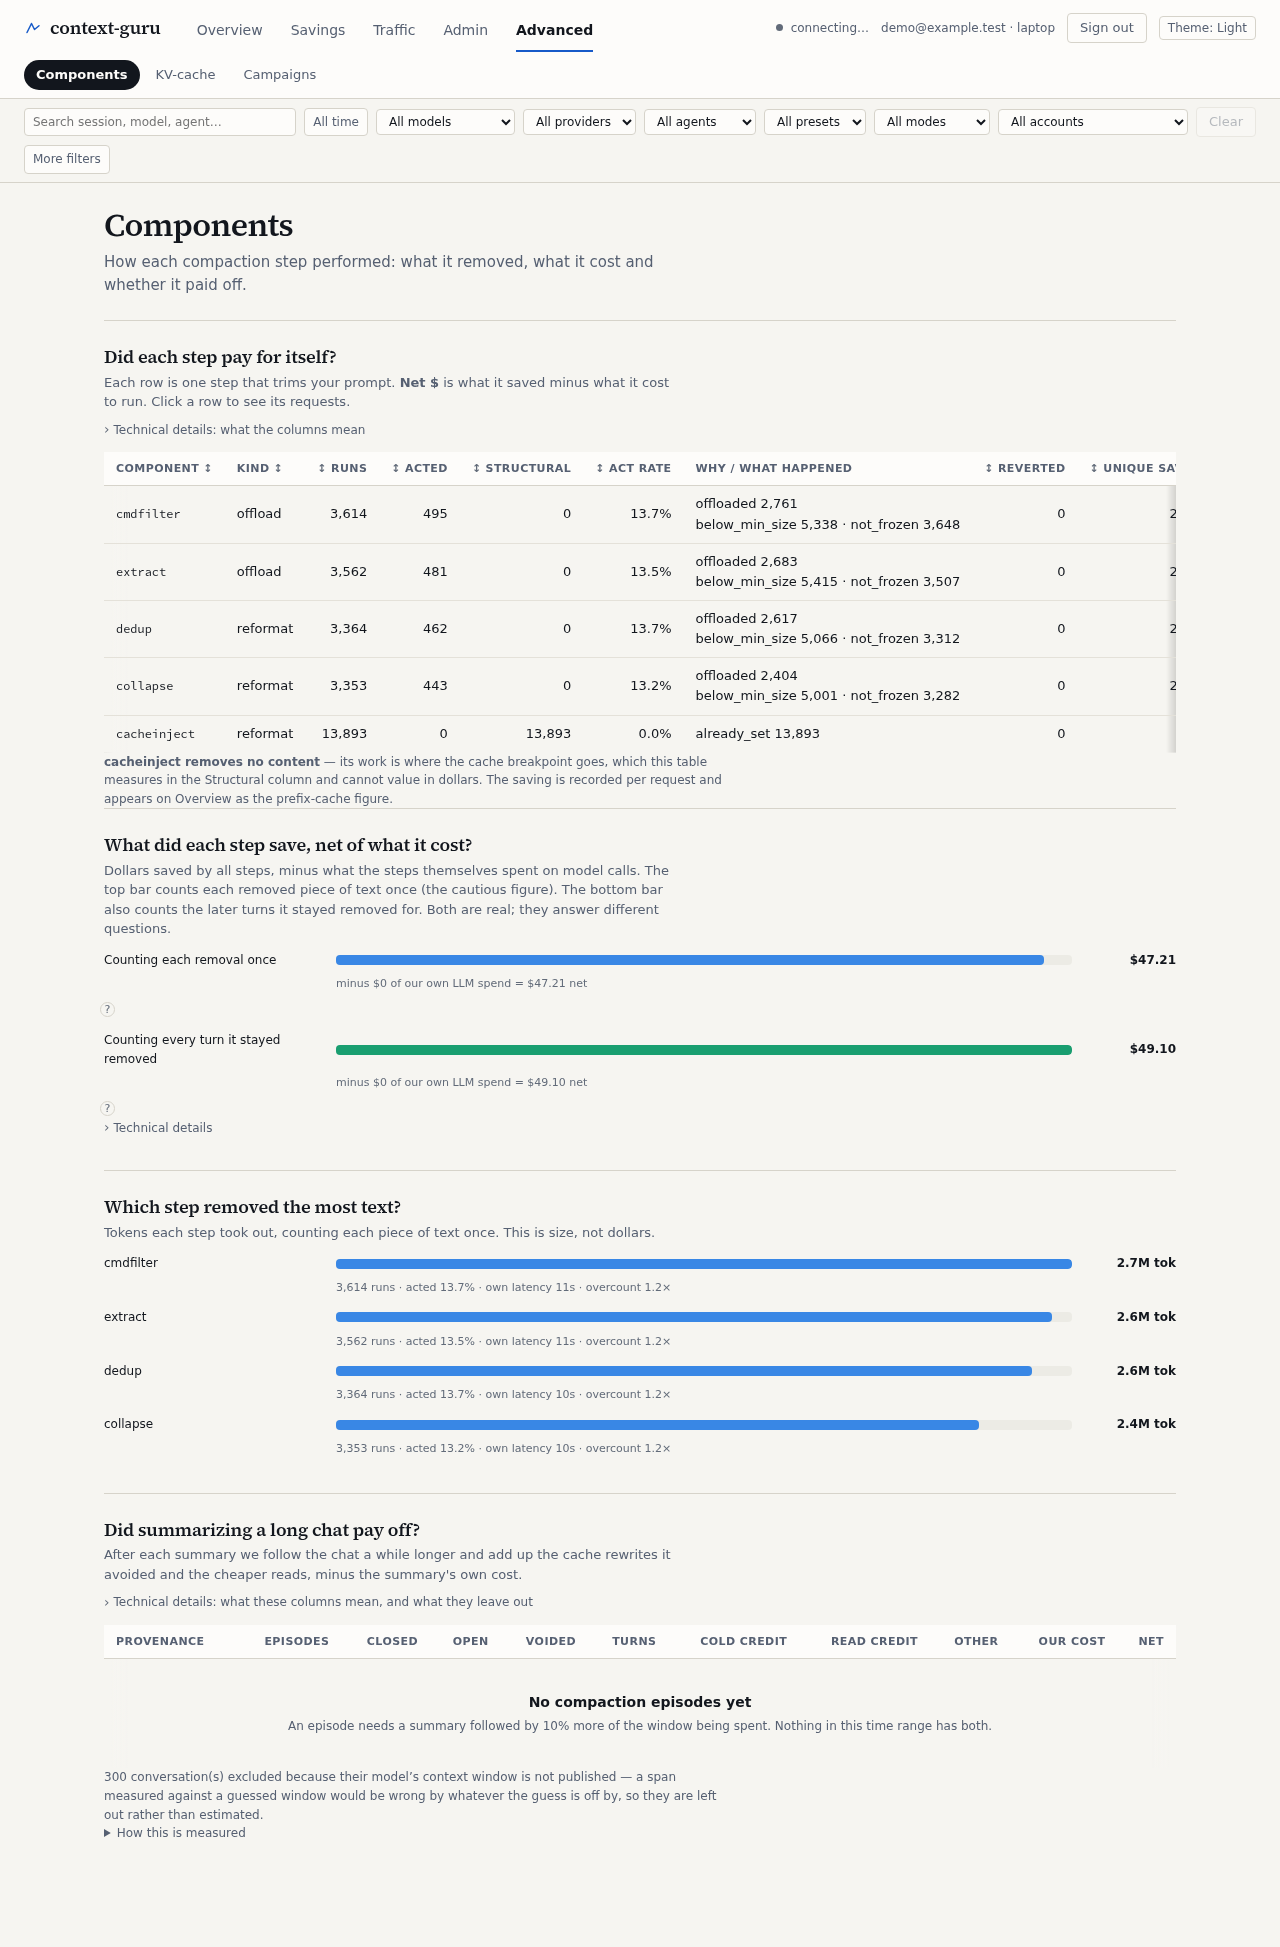
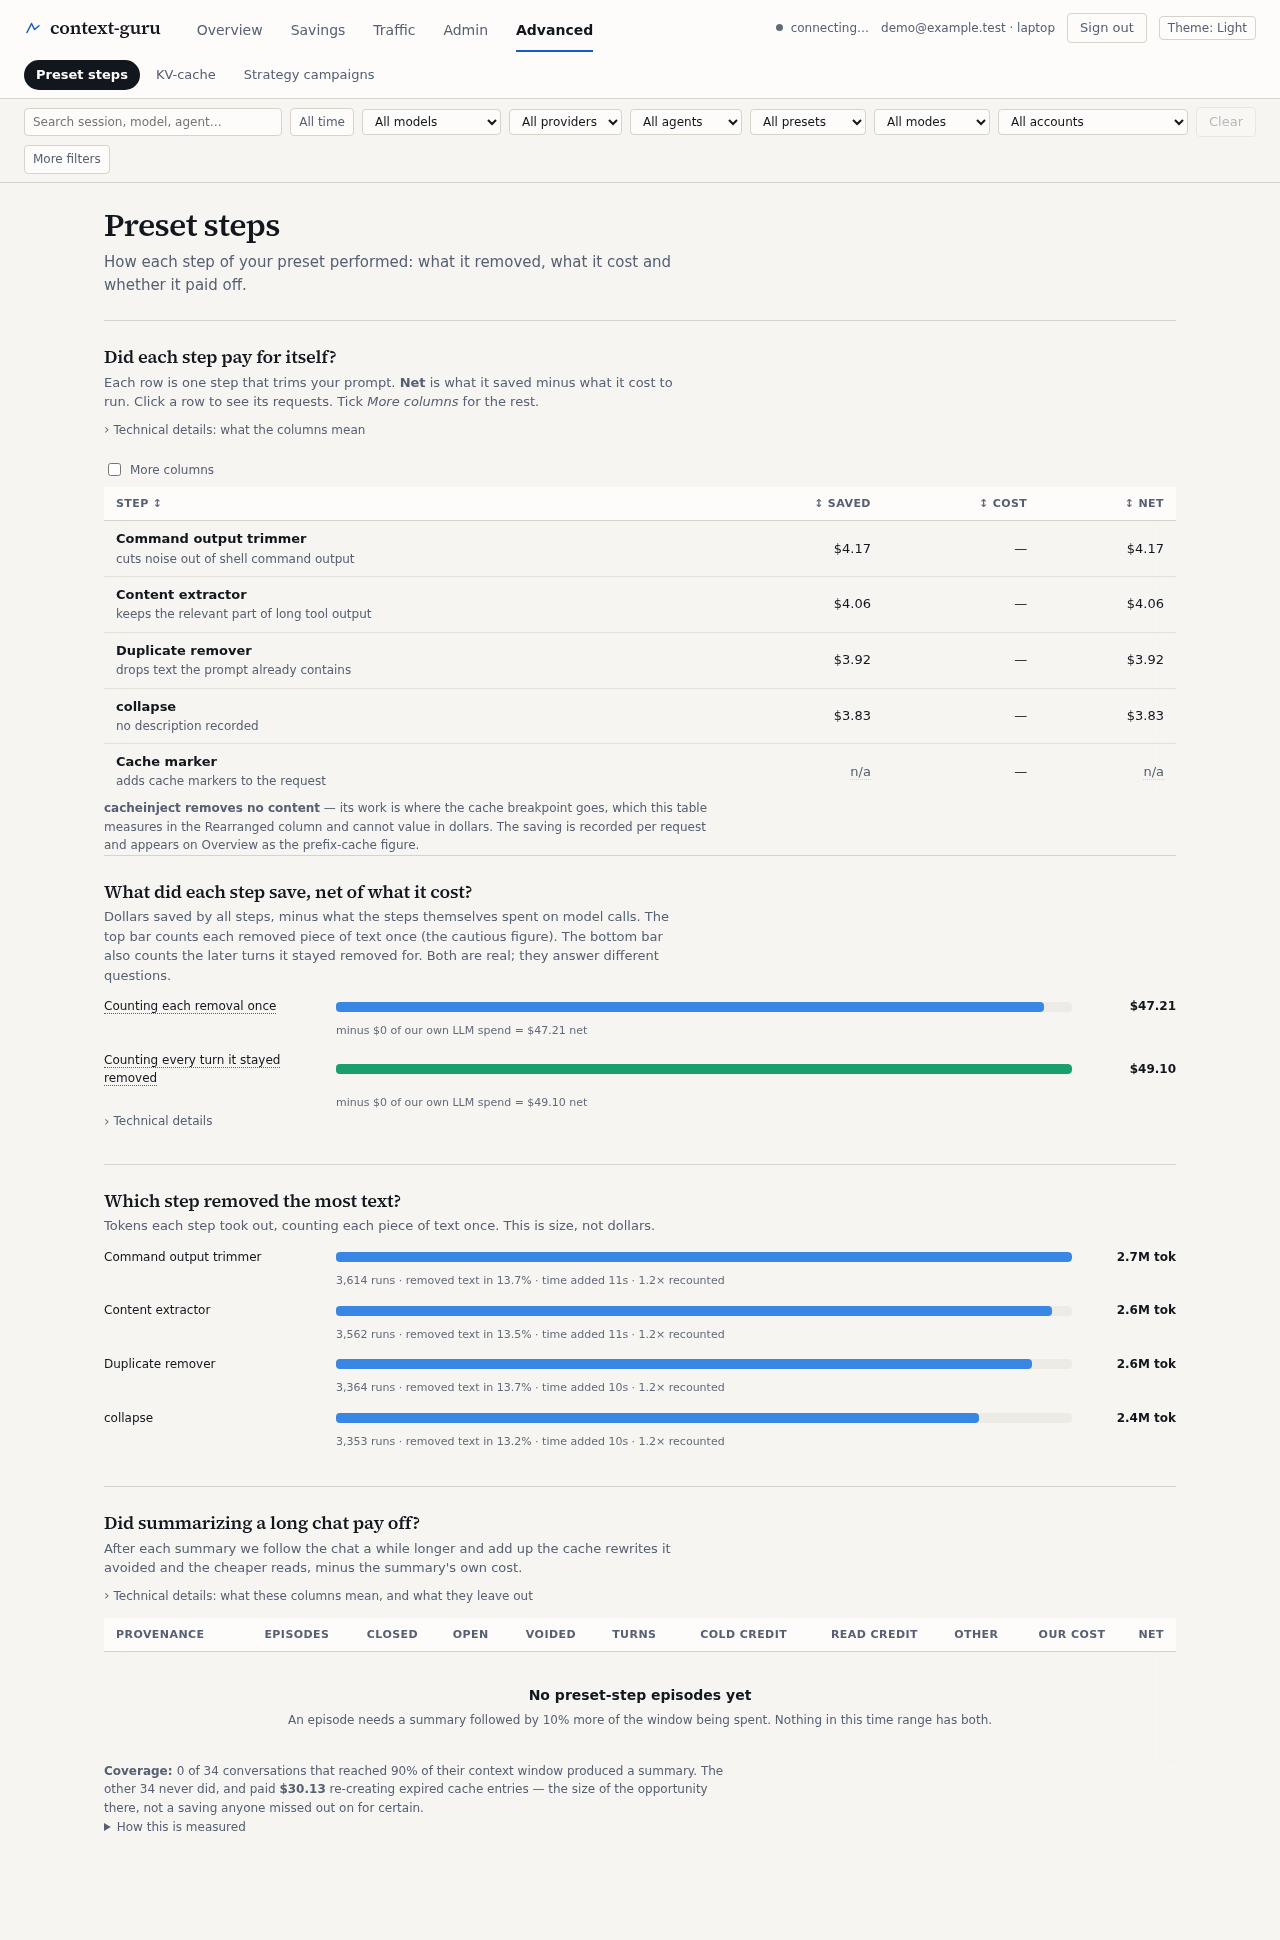
docs(dash): user terms (preset, cache strategy) in the guide and tab names; screenshots regenerated on the neutral demo

diff --git a/docs/how-to/dashboard-guide.md b/docs/how-to/dashboard-guide.md
@@ -4,7 +4,8 @@ A plain guide to every tab of the context-guru dashboard. Each section says in o
 tab shows, then explains its blocks in a few words. For the technical reference see
 [Dashboard](../dashboard.md).
 
-The dashboard opens at `http://localhost:4000/dashboard/` (use your own host and port). Old links such as `#home` and `#cache` open Overview and Keep-alive.
+The dashboard opens at `http://localhost:4000/dashboard/` (use your own host and port). Old links such as `#home` and `#cache` open Overview and Cache strategy.
+The old names still appear in some places: "compaction" means your **preset** and "keep-alive" means a **cache strategy**.
 The tabs sit in five groups along the top: **Overview**, **Savings**, **Traffic**, **Admin** and
 **Advanced**. The row of filters under them (time range, model, agent, account) applies to every
 tab. Pick a range first; all the numbers below follow it.
@@ -24,7 +25,7 @@ tab's title says so. The sample data on these screenshots is invented. Dark them
 
     ![The Overview tab, dark theme](../img/dashboard/overview-dark.png)
 
-**What context-guru saved.** Three rows: Cache keep-alive, Compaction, and Tools and skills filter. Each shows money and tokens saved, set against what you spent in the selected range. An "Estimated" or "Upper bound" badge tells you how firm the number is. The keep-alive row also shows the waiting time it avoided, and says that whether to keep it on is a forecast from your own history: see the Keep-alive tab. A note under the rows explains that "spent" includes our own model calls and pings, and that the provider's own cache discount is not counted as our saving.
+**What context-guru saved.** Three rows: Cache strategy, Your preset (with its name), and Tools and skills filter. Each shows money and tokens saved, set against what you spent in the selected range. An "Estimated" or "Upper bound" badge tells you how firm the number is. The cache strategy row also shows the waiting time it avoided, and says that whether to keep it on is a forecast from your own history: see the Cache strategy tab. A note under the rows explains that "spent" includes our own model calls and pings, and that the provider's own cache discount is not counted as our saving.
 
 **Tools and skills to remove.** A ranked list of the tools and skills your agent carries but never uses, with what carrying each one cost in the selected range. Two commands you can copy, `/context-guru:remove-mcp-and-skills` and `/context-guru:insights tools`, remove them or show the details. A link opens the Inventory tab.
 
@@ -37,25 +38,25 @@ Detailed diagnostics, opened:
 ![The Overview with Detailed diagnostics open](../img/dashboard/overview-diagnostics-light.png)
 
 
-## Keep-alive
+## Cache strategy
 
-**Whether pinging your cache before it expires paid for itself, and which setting to use.**
+**Whether your cache strategy (keeping the prompt cache warm while you think) paid for itself, and which one to use. Also called keep-alive.**
 
 === "Light"
 
-    ![The Keep-alive tab, light theme](../img/dashboard/keepalive-light.png)
+    ![The Cache strategy tab, light theme](../img/dashboard/keepalive-light.png)
 
 === "Dark"
 
-    ![The Keep-alive tab, dark theme](../img/dashboard/keepalive-dark.png)
+    ![The Cache strategy tab, dark theme](../img/dashboard/keepalive-dark.png)
 
-**Does keep-alive pay for itself?.** One verdict for your own history. The prompt cache is the provider's short-term memory of your conversation; it is dropped after a few minutes of silence. A keep-alive ping is a tiny request that keeps it.
+**Does your cache strategy pay for itself?** One verdict for your own history. The prompt cache is the provider's short-term memory of your conversation; it is dropped after a few minutes of silence. A cache strategy sends a tiny ping that keeps it warm (also called keep-alive).
 
 **Which sessions gained and which lost.** A ranked list of sessions with what pings cost and what they saved. It shows whether the gain is spread out or sits in a few sessions. A second list shows sessions whose cache is still warm right now.
 
 **How often your cache ran out.** Compact charts of the expiries: how many per day, what they cost, and how long you had been idle when they happened.
 
-**What would other settings have earned?.** A calculator and a recommendation. Change how long to wait before a ping and how many pings to send, and see what your past traffic would have cost.
+**What would other settings have earned?** A calculator and a recommendation. Change how long to wait before a ping and how many pings to send, and see what your past traffic would have cost.
 
 
 ## Inventory
@@ -72,11 +73,11 @@ Detailed diagnostics, opened:
 
 **Removable groups.** Ranked cards, biggest first. Each card is one thing you can remove, such as a whole tool server, with the cost of carrying it and the command to remove it.
 
-**How much is never used?.** Two short summaries of how much of what you send nothing ever calls. Tools are listed in every request, so you pay for them every time.
+**How much is never used?** Two short summaries of how much of what you send nothing ever calls. Tools are listed in every request, so you pay for them every time.
 
-**What did my removals save?.** After you remove something, this shows what it saved on requests really sent. It is kept apart from the estimates above.
+**What did my removals save?** After you remove something, this shows what it saved on requests really sent. It is kept apart from the estimates above.
 
-**What is in the start of every request?.** Splits the fixed start of each request into its parts and shows which parts you can change.
+**What is in the start of every request?** Splits the fixed start of each request into its parts and shows which parts you can change.
 
 
 ## Usage
@@ -91,11 +92,11 @@ Detailed diagnostics, opened:
 
     ![The Usage tab, dark theme](../img/dashboard/usage-dark.png)
 
-**What did I spend each day?.** One chart of daily spend, in UTC days, with how much compaction took off. Hover a bar for the exact day.
+**What did I spend each day?** One chart of daily spend, in UTC days, with how much your preset took off. Hover a bar for the exact day.
 
-**Where did the money go?.** Splits spend by model or agent, so you can see which one costs the most.
+**Where did the money go?** Splits spend by model or agent, so you can see which one costs the most.
 
-**How much did the prompt cache cover?.** Shows how requests were billed: cheap cache reads, dearer cache writes, and full-price new input. Charts show where cache markers sit in your prompts, how long the cache was asked to live, and why it sometimes missed.
+**How much did the prompt cache cover?** Shows how requests were billed: cheap cache reads, dearer cache writes, and full-price new input. Charts show where cache markers sit in your prompts, how long the cache was asked to live, and why it sometimes missed.
 
 
 ## Sessions
@@ -139,15 +140,15 @@ Detailed diagnostics, opened:
 **Logs.** Steps to open the proxy logs through an SSH tunnel, when logging is set up.
 
 
-## Strategies
+## Cache strategies
 
-**Saved keep-alive rules and what each has done so far.**
+**The cache strategies you saved and what each has done so far.**
 
 *Managers only.*
 
 === "Light"
 
-    ![The Strategies tab, light theme](../img/dashboard/strategies-light.png)
+    ![The Cache strategies tab, light theme](../img/dashboard/strategies-light.png)
 
 **New strategy.** Pick how long to wait before a ping and how many pings to send, name the rule, and save it.
 
@@ -186,7 +187,7 @@ Detailed diagnostics, opened:
 
 ## Settings
 
-**Your account: compaction settings, access tokens, password and machines.**
+**Your account: preset settings, access tokens, password and machines.**
 
 *Hosted service only.*
 
@@ -194,7 +195,7 @@ Detailed diagnostics, opened:
 
     ![The Settings tab, light theme](../img/dashboard/settings-light.png)
 
-**Compaction settings and tokens.** Change the compaction options for your account and manage the access tokens your agents use.
+**Preset settings and tokens.** Change the preset options for your account and manage the access tokens your agents use.
 
 **Password and machines.** Change your password and see where you are signed in.
 
@@ -224,28 +225,28 @@ Detailed diagnostics, opened:
 
     ![The Feedback tab, light theme](../img/dashboard/feedback-light.png)
 
-**How is context-guru working for you?.** A short form. It takes under a minute.
+**How is context-guru working for you?** A short form. It takes under a minute.
 
 **What people said.** For managers: charts of scores by agent and over time, and whether people would recommend it.
 
 **All answers.** The raw answers, newest first.
 
 
-## Components
+## Preset steps
 
-**How each compaction step performed: what it removed, what it cost and whether it paid off.**
+**How each step of your preset performed: what it removed, what it cost and whether it paid off.**
 
 === "Light"
 
-    ![The Components tab, light theme](../img/dashboard/components-light.png)
+    ![The Preset steps tab, light theme](../img/dashboard/components-light.png)
 
-**Did each step pay for itself?.** A component is one step of compaction, such as removing duplicate text. The table shows how often each step ran and whether it earned more than it cost.
+**Did each step pay for itself?** A preset is a list of steps (also called compaction components), such as removing duplicate text. The table shows how often each step ran and whether it earned more than it cost.
 
-**What did each step save, net of what it cost?.** The net dollars per step, after the cost of any model call the step made.
+**What did each step save, net of what it cost?** The net dollars per step, after the cost of any model call the step made.
 
-**Which step removed the most text?.** A chart of tokens removed per step.
+**Which step removed the most text?** A chart of tokens removed per step.
 
-**Did summarizing a long chat pay off?.** The result of the summarizing step on its own.
+**Did summarizing a long chat pay off?** The result of the summarizing step on its own.
 
 
 ## KV-cache
@@ -256,30 +257,30 @@ Detailed diagnostics, opened:
 
     ![The KV-cache tab, light theme](../img/dashboard/kvcache-light.png)
 
-**How long do conversations pause?.** Counts how often a request is followed by another and how soon. Requests with no follow-up are left out of averages.
+**How long do conversations pause?** Counts how often a request is followed by another and how soon. Requests with no follow-up are left out of averages.
 
-**How long is the pause before the next request?.** A chart of idle times and a curve of how many conversations had come back by each moment. It shows whether the five-minute cache window fits your habits.
+**How long is the pause before the next request?** A chart of idle times and a curve of how many conversations had come back by each moment. It shows whether the five-minute cache window fits your habits.
 
-**Which users and models pause longest?.** The same idle times split by cache lifetime, user, model and time of day.
+**Which users and models pause longest?** The same idle times split by cache lifetime, user, model and time of day.
 
-**What does caching cost?.** Every price the page uses, and the cost of a different cache lifetime on your past traffic.
+**What does caching cost?** Every price the page uses, and the cost of a different cache lifetime on your past traffic.
 
 **Every request behind these numbers.** The raw rows, sortable, and a note on how the numbers are calculated.
 
 
-## Campaigns
+## Strategy campaigns
 
-**Create keep-alive rules for many sessions at once, then check them on data they have not seen.**
+**Create cache strategies for many sessions at once, then check them on data they have not seen.**
 
 *Managers only.*
 
 === "Light"
 
-    ![The Campaigns tab, light theme](../img/dashboard/campaigns-light.png)
+    ![The Strategy campaigns tab, light theme](../img/dashboard/campaigns-light.png)
 
-**Create rules for many accounts at once.** Fetch the suggested rule for each account, or upload your own file, and create the strategies in one step.
+**Create rules for many accounts at once.** Fetch the suggested strategy for each account, or upload your own file, and create the cache strategies in one step.
 
-**Would these predictions hold on new data?.** Picks a rule on an earlier period and scores it on a later one. If it only works on the earlier period, the check says so.
+**Would these predictions hold on new data?** Picks a rule on an earlier period and scores it on a later one. If it only works on the earlier period, the check says so.
 
 **Campaigns you have created.** The list of campaigns and what each did.
 

diff --git a/docs/dashboard.md b/docs/dashboard.md
@@ -11,7 +11,9 @@ context-guru-proxy --preset general --dashboard
 ```
 
 `/dashboard/` opens the **Overview**. The older links `/dashboard/#home` and `/dashboard/#cache` open
-Overview and Keep-alive, and `/dashboard/home.html` redirects to the dashboard.
+Overview and Cache strategy, and `/dashboard/home.html` redirects to the dashboard.
+
+The dashboard uses the words *preset* and *cache strategy*. The older names, compaction and keep-alive, mean the same things.
 
 It is **off by default**. Turning it on adds `/dashboard/` and `/api/*`; every existing
 route, including [`/stats`](reference/reference.md), is byte-for-byte unchanged.
@@ -28,23 +30,23 @@ route, including [`/stats`](reference/reference.md), is byte-for-byte unchanged.
 
 ## What you'll see
 
-- **Overview** — "What context-guru saved": three rows (cache keep-alive, compaction, tools and
+- **Overview** — "What context-guru saved": three rows (Cache strategy, Your preset, Tools and
   skills filter), each in dollars and tokens against what you spent, with an *Estimated* or
-  *Upper bound* badge. The keep-alive row notes that whether to keep it on is a forecast (see
-  Keep-alive), and a note says the provider's own cache discount is not counted. Below: "Tools and
+  *Upper bound* badge. The cache strategy row notes that whether to keep it on is a forecast (see
+  the Cache strategy tab), and a note says the provider's own cache discount is not counted. Below: "Tools and
   skills to remove" (a ranked list, with `/context-guru:remove-mcp-and-skills` and
   `/context-guru:insights tools`), "About the other tabs", and one closed "Detailed diagnostics"
   section with five plots (net saving over time; money saved and added, where an outlined bar is an
   upper bound; tokens removed; where input tokens went, as 100% columns of cache read, cache write
   and fresh; time added per request and requests with cache misses) and a live requests table.
   Every plot shows exact figures on hover.
-- **Savings** — Keep-alive, Inventory (the [tool inventory](#tool-inventory-panel)) and Usage over time.
+- **Savings** — Cache strategy (also called keep-alive), Inventory (the [tool inventory](#tool-inventory-panel)) and Usage over time.
 - **Traffic** — Sessions (newest or costliest first; six columns, more with a checkbox) and
   Requests, including a git-style diff of exactly what was rewritten on the wire.
-- **Admin** — Config, Strategies, Tenants, Setup, Settings, Archive and Feedback
+- **Admin** — Config, Cache strategies, Tenants, Setup, Settings, Archive and Feedback
   (some of these appear only in a [hosted service](hosted.md)).
-- **Advanced** — Components (per-component economics), [KV-cache behavior](#kv-cache-panel),
-  and Campaigns (per-account keep-alive rules).
+- **Advanced** — Preset steps (per-component economics), [KV-cache behavior](#kv-cache-panel),
+  and Strategy campaigns (per-account cache strategies).
 
 Every tab starts with a title and one line saying what it shows. Dark mode, small
 viewports, and empty states (a blank dashboard explains *why* each panel is blank) are
@@ -157,7 +159,7 @@ still works; only the text is withheld.
 at that idle profile, and what a different TTL policy would have cost on the same
 history.*
 
-The tab sits next to **Keep-alive** — both answer "what is the prompt cache doing to my
+The tab sits next to **Cache strategy** — both answer "what is the prompt cache doing to my
 bill." It respects the shared filter bar (time range, model, agent, account), plus
 three narrowings that exist only here because they're derived rather than stored
 columns: time-of-day band, observed TTL tier, and whether a request has a successor at

diff --git a/docs/hosted.md b/docs/hosted.md
@@ -801,7 +801,7 @@ is what `per_output: false` used to mean.
 
 **Then check what it did**, before turning on anything else. Requests tab → open a request →
 **Compaction model calls**: one row per call with its cost, its saving, its latency, whether
-the result was accepted, and why not when it was not. The Components tab now carries an
+the result was accepted, and why not when it was not. The Preset steps tab (Components) now carries an
 `LLM cost` column and states the verdict in dollars. What to look for:
 
 | reading | meaning |

diff --git a/docs/components/summarize.md b/docs/components/summarize.md
@@ -348,7 +348,7 @@ message text) is the size gate.
 
 ## Measuring what it earned
 
-The Components tab carries a **What each summary earned** panel, which follows every summary for
+The Preset steps tab (Components) carries a **What each summary earned** panel, which follows every summary for
 **10% more of the model's context window** and reports what happened over that span:
 
 | Column | What it is |
